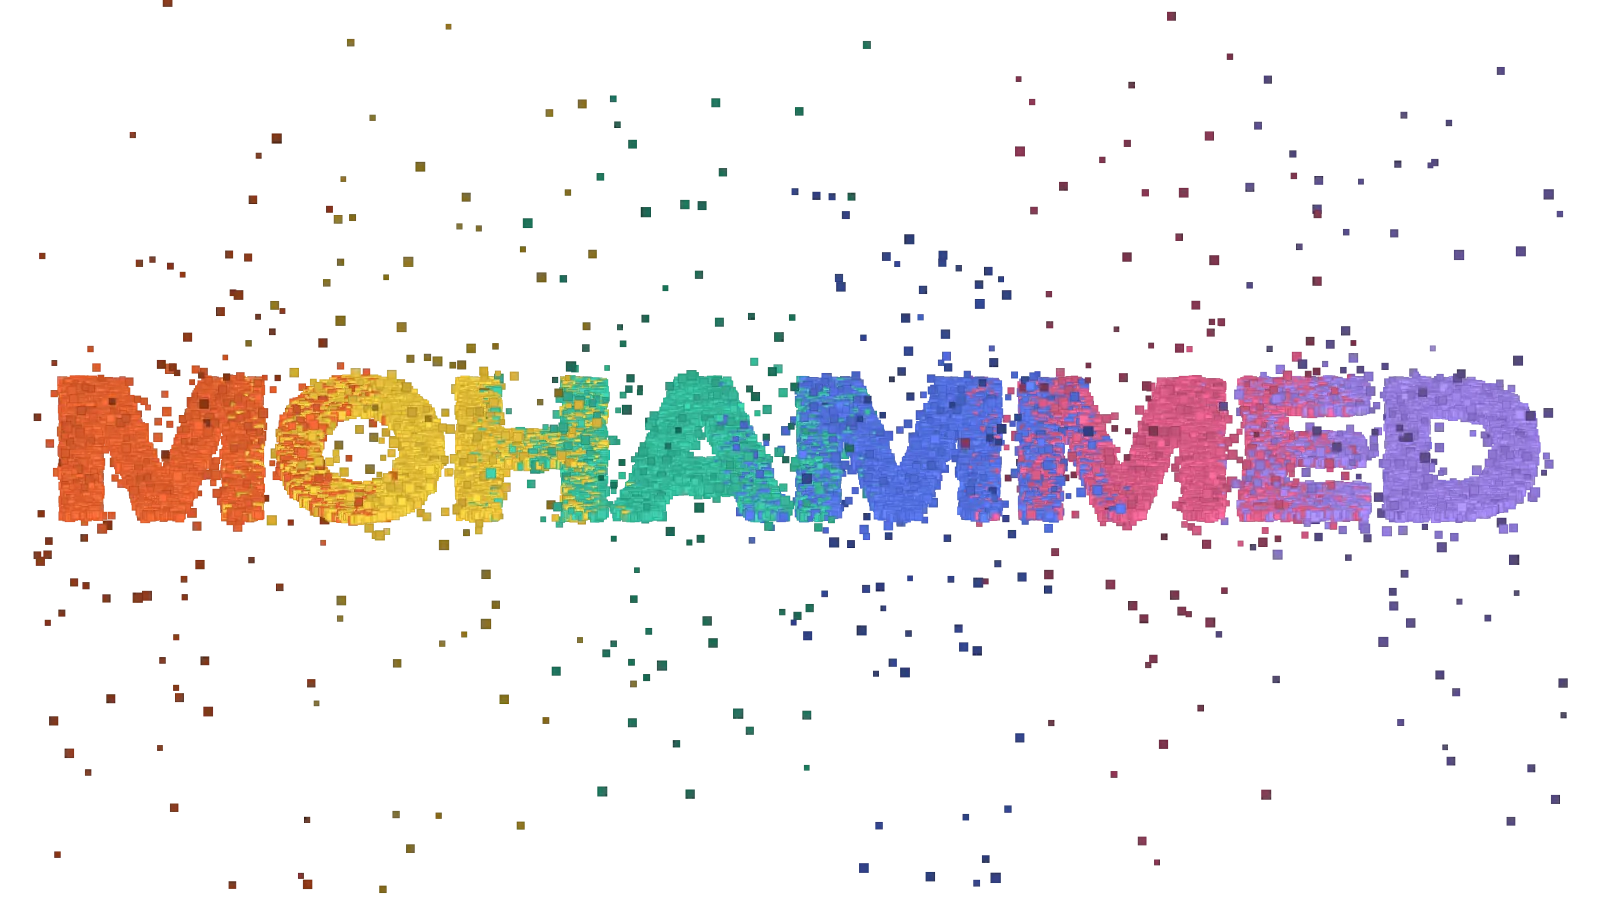
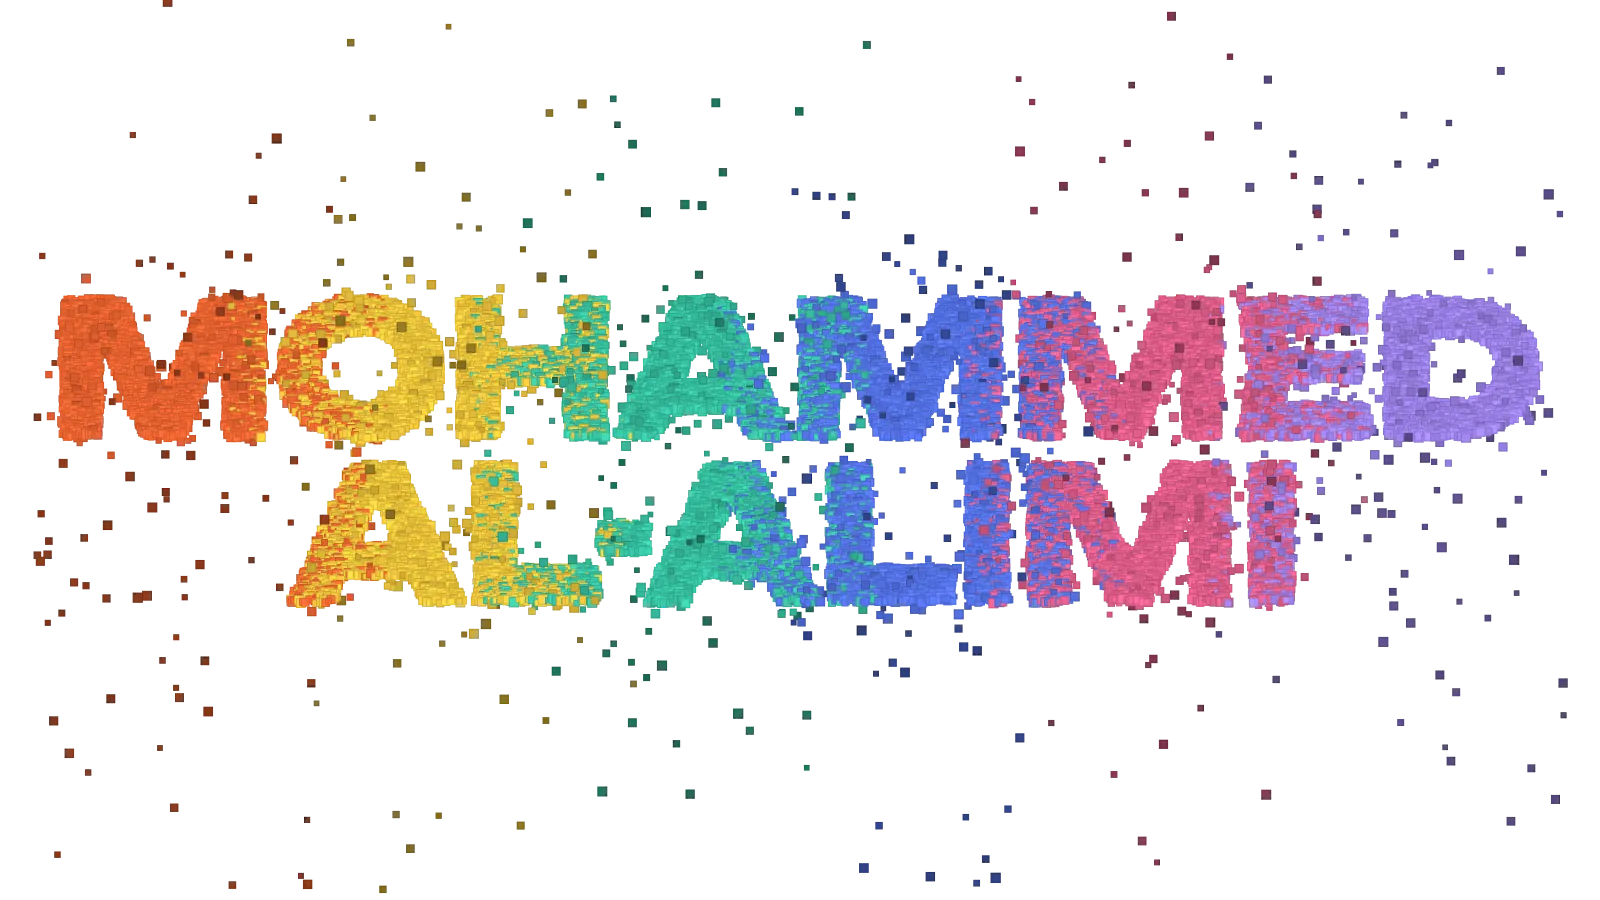
feat: sample the name on two lines so the storm fills the slot

Changed region(s): [[0.0312, 0.3111, 0.9688, 0.6844]]

diff --git a/tests/unit/pixel-sampler.test.ts b/tests/unit/pixel-sampler.test.ts
@@ -15,8 +15,9 @@ const PATTERN = [
   "#......#",
 ];
 
-function stubFactory(pattern = PATTERN) {
+function stubFactory(pattern = PATTERN, measure = 0) {
   const calls: string[] = [];
+  const lines: { text: string; y: number }[] = [];
   const getContext = (w: number, h: number): SamplerContext => {
     const data = new Uint8ClampedArray(w * h * 4);
     pattern.forEach((row, y) => {
@@ -32,14 +33,15 @@ function stubFactory(pattern = PATTERN) {
       textBaseline: "alphabetic",
       clearRect: () => {},
       setTransform: () => {},
-      fillText: (text: string) => {
+      fillText: (text: string, _x: number, y: number) => {
         calls.push(text);
+        lines.push({ text, y });
       },
-      measureText: () => ({ width: 0 }) as TextMetrics,
+      measureText: (text: string) => ({ width: text.length * measure }) as TextMetrics,
       getImageData: () => ({ data, width: w, height: h, colorSpace: "srgb" }) as ImageData,
     };
   };
-  return { getContext, calls };
+  return { getContext, calls, lines };
 }
 
 const base = { font: "700 10px Test", width: 8, height: 4 };
@@ -70,6 +72,69 @@ describe("sampleText", () => {
     const b = sampleText("HI", { ...base, step: 1, getContext: stubFactory().getContext });
     expect(a.length % 2).toBe(0);
     expect(Array.from(a)).toEqual(Array.from(b));
+  });
+});
+
+describe("sampleText with several lines", () => {
+  // Two bands of pixels, as two drawn lines would leave.
+  const TALL = [
+    "........",
+    ".##..##.",
+    "........",
+    "........",
+    "........",
+    "........",
+    ".##..##.",
+    "........",
+  ];
+
+  it("draws each line centred, 0.92 x font size apart", () => {
+    const { getContext, lines } = stubFactory();
+    sampleText(["AB", "CD"], { ...base, step: 1, getContext });
+    expect(lines.map((l) => l.text)).toEqual(["AB", "CD"]);
+    expect(lines[0]!.y).toBeCloseTo(-4.6);
+    expect(lines[1]!.y).toBeCloseTo(4.6);
+  });
+
+  it("returns points in two vertical bands", () => {
+    const { getContext } = stubFactory(TALL);
+    const pts = sampleText(["AB", "CD"], { ...base, height: 8, step: 1, getContext });
+    const ys = new Set<number>();
+    for (let i = 1; i < pts.length; i += 2) ys.add(pts[i]!);
+    expect([...ys]).toEqual([0.625, -0.625]);
+    expect(pts.length / 2).toBe(8);
+  });
+
+  it("sizes the font so the widest line spans the width minus 6%", () => {
+    const transforms: number[] = [];
+    const { getContext } = stubFactory(PATTERN, 2);
+    const wrapped = (w: number, h: number): SamplerContext => {
+      const ctx = getContext(w, h);
+      return {
+        ...ctx,
+        setTransform: (a: number) => {
+          transforms.push(a);
+        },
+      } as SamplerContext;
+    };
+    // Widest line "ABCD" measures 8 px at 10 px. 8 px wide canvas, 94% -> scale 0.94.
+    // The canvas is tall enough that the height does not limit the scale.
+    sampleText(["AB", "ABCD"], { ...base, height: 40, step: 1, getContext: wrapped });
+    expect(transforms[0]).toBeCloseTo(0.94);
+  });
+
+  it("shrinks to fit the height when the block is too tall", () => {
+    const transforms: number[] = [];
+    const { getContext } = stubFactory(PATTERN, 2);
+    const wrapped = (w: number, h: number): SamplerContext => ({
+      ...getContext(w, h),
+      setTransform: (a: number) => {
+        transforms.push(a);
+      },
+    }) as SamplerContext;
+    // Two lines at 10 px take 18.4 px; 4 px tall canvas, 94% -> 3.76 / 18.4.
+    sampleText(["AB", "ABCD"], { ...base, step: 1, getContext: wrapped });
+    expect(transforms[0]).toBeCloseTo(3.76 / 18.4);
   });
 });
 

diff --git a/lib/pixel-sampler.ts b/lib/pixel-sampler.ts
@@ -18,6 +18,7 @@ export type SamplerContext = Pick<
 export type ContextFactory = (width: number, height: number) => SamplerContext;
 
 export interface SampleOptions {
+  /** CSS font with a px size, for example `700 220px Unbounded`. */
   font: string;
   width: number;
   height: number;
@@ -26,7 +27,8 @@ export interface SampleOptions {
 }
 
 const ALPHA_CUTOFF = 128;
-const MAX_TEXT_WIDTH = 0.96;
+const TEXT_SPAN = 0.94; // the widest line spans the bitmap minus 6%
+const LINE_HEIGHT = 0.92; // times the font size
 
 // Small seeded PRNG, so every run builds the same cloud.
 export function mulberry32(seed: number): () => number {
@@ -40,19 +42,33 @@ export function mulberry32(seed: number): () => number {
   };
 }
 
-function drawText(text: string, opts: Omit<SampleOptions, "step">): ImageData {
+function fontPx(font: string): number {
+  const m = /(\d+(?:\.\d+)?)px/.exec(font);
+  return m ? Number(m[1]) : 0;
+}
+
+function drawText(text: string | string[], opts: Omit<SampleOptions, "step">): ImageData {
   const { font, width, height, getContext } = opts;
+  const lines = Array.isArray(text) ? text : [text];
   const ctx = getContext(width, height);
   ctx.clearRect(0, 0, width, height);
   ctx.font = font;
   ctx.fillStyle = "#000";
   ctx.textAlign = "center";
   ctx.textBaseline = "middle";
-  // Shrink uniformly when the word is wider than the bitmap, never squash it.
-  const measured = ctx.measureText(text).width;
-  const scale = measured > width * MAX_TEXT_WIDTH ? (width * MAX_TEXT_WIDTH) / measured : 1;
+  // Scale uniformly so the widest line spans the bitmap, never squash a line.
+  // The block must also fit the height.
+  const lineStep = fontPx(font) * LINE_HEIGHT;
+  const widest = Math.max(0, ...lines.map((l) => ctx.measureText(l).width));
+  let scale = widest > 0 ? (width * TEXT_SPAN) / widest : 1;
+  const blockHeight = lineStep * lines.length;
+  if (blockHeight * scale > height * TEXT_SPAN && blockHeight > 0) {
+    scale = (height * TEXT_SPAN) / blockHeight;
+  }
   ctx.setTransform(scale, 0, 0, scale, width / 2, height / 2);
-  ctx.fillText(text, 0, 0);
+  lines.forEach((line, i) => {
+    ctx.fillText(line, 0, (i - (lines.length - 1) / 2) * lineStep);
+  });
   ctx.setTransform(1, 0, 0, 1, 0, 0);
   return ctx.getImageData(0, 0, width, height);
 }
@@ -74,16 +90,16 @@ function walk(img: ImageData, step: number): Float32Array {
   return new Float32Array(out);
 }
 
-// Draws `text` centred and returns xy pairs for every opaque sample, row by row.
+// Draws `text` (one line, or several stacked) centred and returns xy pairs for every opaque sample, row by row.
 // x spans -1..1 across the bitmap width, y uses the same scale.
-export function sampleText(text: string, opts: SampleOptions): Float32Array {
+export function sampleText(text: string | string[], opts: SampleOptions): Float32Array {
   return walk(drawText(text, opts), opts.step);
 }
 
 // Two passes: count filled pixels on a coarse grid, then pick the step that
 // lands close to `count` points.
 export function sampleTextToCount(
-  text: string,
+  text: string | string[],
   opts: Omit<SampleOptions, "step"> & { count: number },
 ): Float32Array {
   const img = drawText(text, opts);

diff --git a/components/three/HeroStorm.tsx b/components/three/HeroStorm.tsx
@@ -7,7 +7,7 @@ import { useSceneStore } from "@/lib/scene-store";
 import { pointSizeFor, STORM_COLORS } from "@/lib/storm-attributes";
 import { PixelStorm } from "./PixelStorm";
 
-const WORD = "MOHAMMED";
+const LINES = ["MOHAMMED", "AL-ALIMI"];
 const FAMILY = "Unbounded";
 const BITMAP_W = 1600;
 const BITMAP_H = 600;
@@ -41,7 +41,7 @@ export function sampleWord(count: number, family: string): Float32Array {
   const key = `${count}|${family}`;
   const hit = cache.get(key);
   if (hit) return hit;
-  const raw = sampleTextToCount(WORD, {
+  const raw = sampleTextToCount(LINES, {
     font: `700 220px ${family}`,
     width: BITMAP_W,
     height: BITMAP_H,
